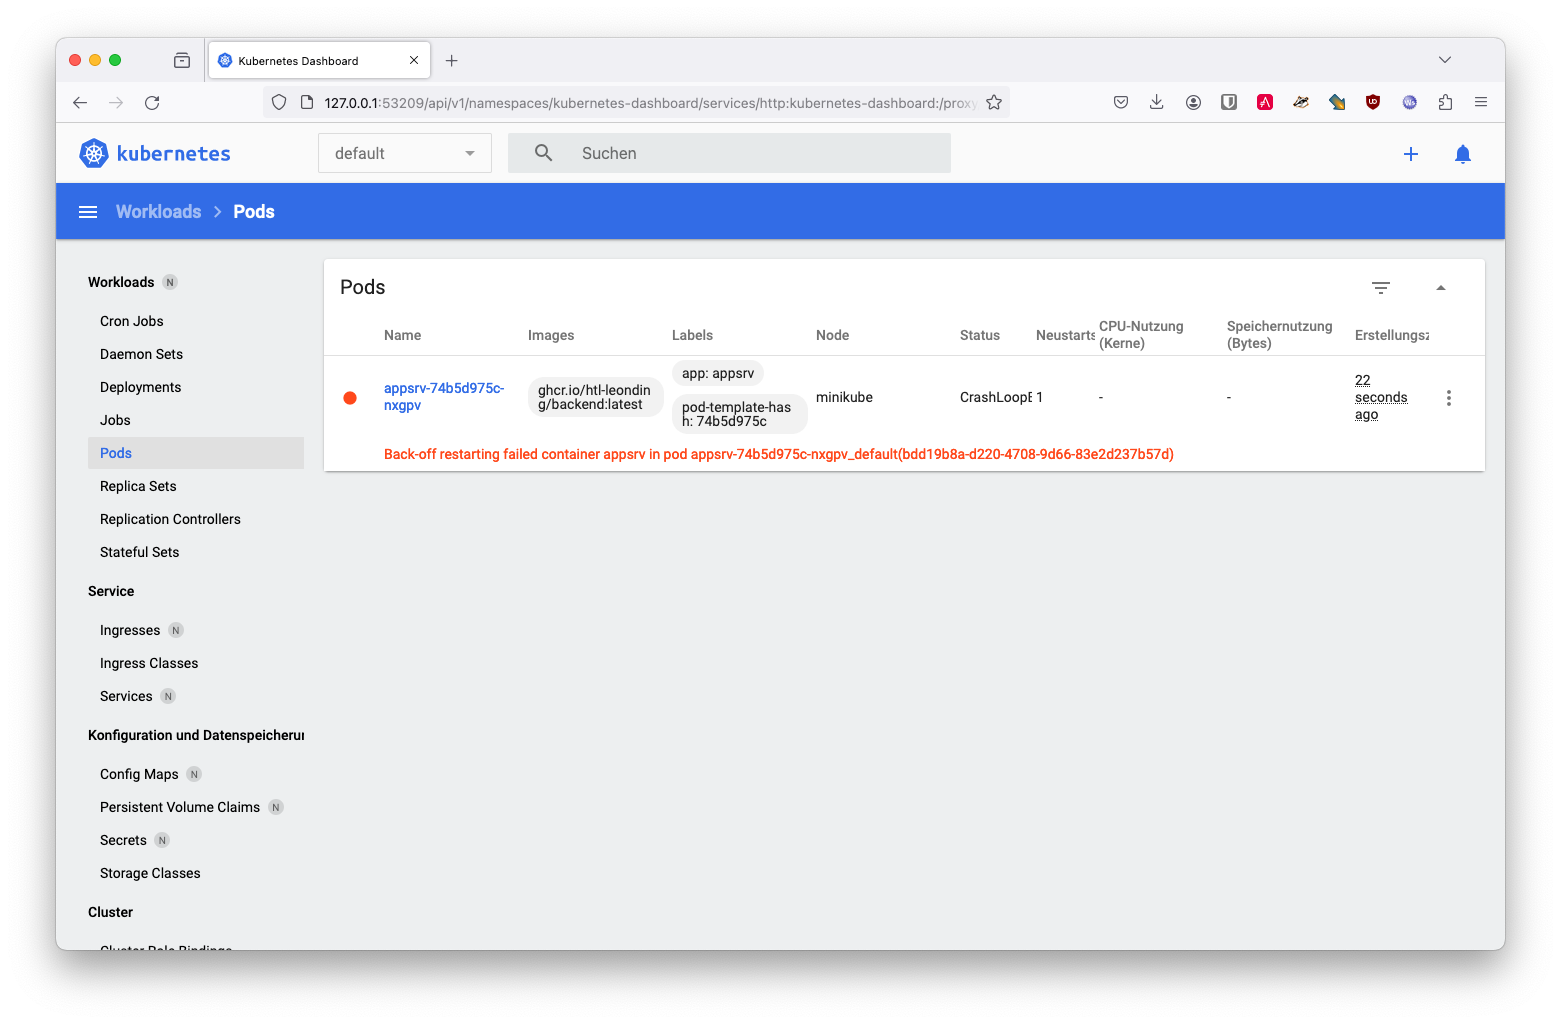
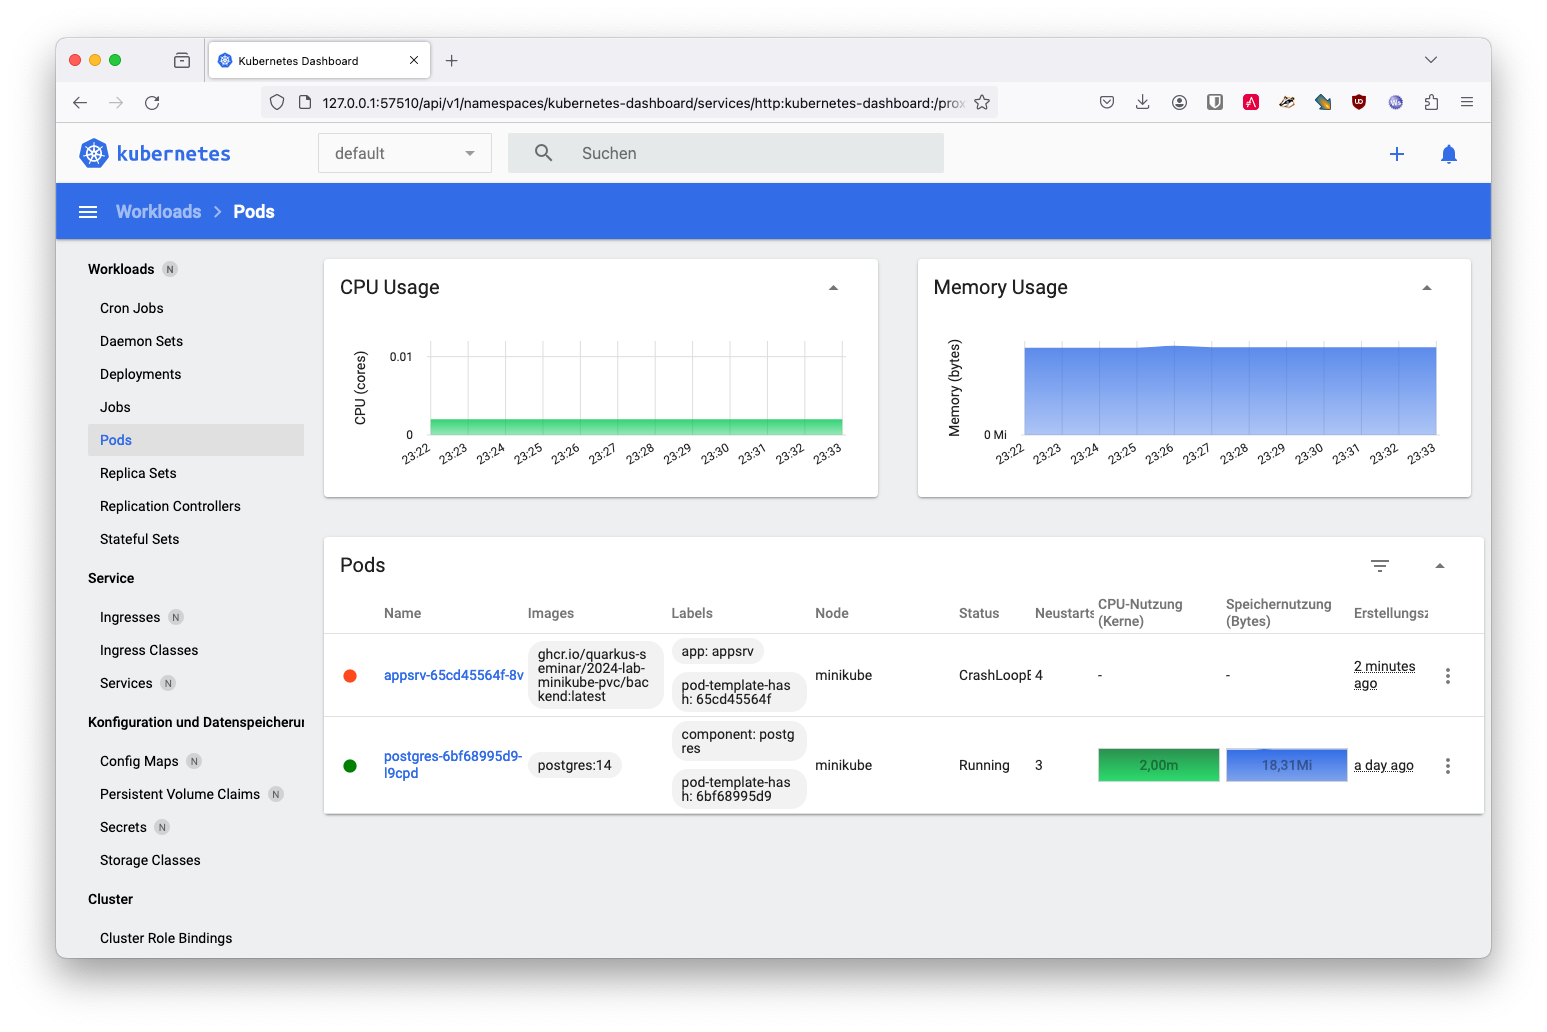
Deploying to gh-pages from @ quarkus-seminar/2024-lab-minikube-pvc@7ee6f2b4ff246fdfce09543f7fbc8039360ca9b0 🚀

diff --git a/index.html b/index.html
@@ -556,7 +556,7 @@ pre.rouge .gs {
 <div class="details">
 <span id="author" class="author">Thomas W. Stütz</span><br>
 <span id="revnumber">version 1.0.0,</span>
-<span id="revdate">2024-03-13</span>
+<span id="revdate">2024-03-15</span>
 <br><span id="revremark">build a simple rest endpoint and deploy app to minikube/cloud</span>
 </div>
 <div id="toc" class="toc2">
@@ -589,10 +589,9 @@ pre.rouge .gs {
 <li><a href="#_fix_problems">16.2. Fix problems</a></li>
 </ul>
 </li>
-<li><a href="#_re_deploy_to_minikube">17. Re-Deploy to minikube</a></li>
-<li><a href="#_port_forward_from_minikube">18. Port Forward from minikube</a></li>
-<li><a href="#_access_the_app">19. Access the App</a></li>
-<li><a href="#_troubleshooting">20. Troubleshooting</a></li>
+<li><a href="#_port_forward_from_minikube">17. Port Forward from minikube</a></li>
+<li><a href="#_access_the_app">18. Access the App</a></li>
+<li><a href="#_troubleshooting">19. Troubleshooting</a></li>
 </ul>
 </div>
 </div>
@@ -602,6 +601,9 @@ pre.rouge .gs {
 <h2 id="_voraussetzungen" class="discrete">Voraussetzungen</h2>
 <div class="paragraph">
 <p><a href="https://htl-leonding-college.github.io/quarkus-lecture-notes/how-to-install-required-software.html" target="_blank" rel="noopener">Which software is required and how to install?</a></p>
+</div>
+<div class="paragraph">
+<p>link::k8s.zip[k8s.zip]</p>
 </div>
 </div>
 </div>
@@ -1300,7 +1302,14 @@ docker push ghcr.io/<span class="nv">$GITHUB_REPOSITORY</span>/backend:latest</c
 <div class="sect1">
 <h2 id="_config_gh_actions_pipeline"><a class="anchor" href="#_config_gh_actions_pipeline"></a>13. Config gh-actions - Pipeline</h2>
 <div class="sectionbody">
+<div class="imageblock">
+<div class="content">
+<img src="images/build-yaml.png" alt="build yaml">
+</div>
+<div class="title">Figure 1. : .github/workflows/build.yaml</div>
+</div>
 <div class="listingblock">
+<div class="title">build.yaml</div>
 <div class="content">
 <pre class="rouge highlight"><code data-lang="yaml"><span class="na">name</span><span class="pi">:</span> <span class="s">Build and Deploy Dockerfiles</span>
 <span class="na">run-name</span><span class="pi">:</span> <span class="s">${{ github.actor }} is building Docker images 🚀</span>
@@ -1336,6 +1345,18 @@ docker push ghcr.io/<span class="nv">$GITHUB_REPOSITORY</span>/backend:latest</c
 
       <span class="pi">-</span> <span class="na">name</span><span class="pi">:</span> <span class="s">Build with Maven</span>
         <span class="na">run</span><span class="pi">:</span> <span class="s">./build.sh</span></code></pre>
+</div>
+</div>
+<div class="ulist">
+<ul>
+<li>
+<p>Make a commit and push it to the repository</p>
+</li>
+</ul>
+</div>
+<div class="imageblock">
+<div class="content">
+<img src="images/gh-action-build.png" alt="gh action build">
 </div>
 </div>
 </div>
@@ -1374,13 +1395,6 @@ docker push ghcr.io/<span class="nv">$GITHUB_REPOSITORY</span>/backend:latest</c
 <h2 id="_configure_kubernetes_deployment"><a class="anchor" href="#_configure_kubernetes_deployment"></a>15. Configure kubernetes Deployment</h2>
 <div class="sectionbody">
 <div class="listingblock">
-<div class="title">check, if you are still in project root, then:</div>
-<div class="content">
-<pre>mkdir k8s
-touch k8s/appsrv.yaml</pre>
-</div>
-</div>
-<div class="listingblock">
 <div class="title">k8s/appsrv.yaml</div>
 <div class="content">
 <pre class="rouge highlight"><code data-lang="yaml"><span class="c1"># Quarkus Application Server</span>
@@ -1401,7 +1415,7 @@ touch k8s/appsrv.yaml</pre>
     <span class="na">spec</span><span class="pi">:</span>
       <span class="na">containers</span><span class="pi">:</span>
         <span class="pi">-</span> <span class="na">name</span><span class="pi">:</span> <span class="s">appsrv</span>
-          <span class="na">image</span><span class="pi">:</span> <span class="s">ghcr.io/htl-leonding/backend:latest</span> <i class="conum" data-value="1"></i><b>(1)</b>
+          <span class="na">image</span><span class="pi">:</span> <span class="s">ghcr.io/quarkus-seminar/2024-lab-minikube-pvc/backend:latest</span> <i class="conum" data-value="1"></i><b>(1)</b>
           <span class="c1"># remove this when stable. Currently we do not take care of version numbers</span>
           <span class="na">imagePullPolicy</span><span class="pi">:</span> <span class="s">Always</span>
           <span class="na">ports</span><span class="pi">:</span>
@@ -1565,92 +1579,29 @@ service/appsrv created</pre>
 </div>
 <div class="imageblock">
 <div class="content">
+<img src="images/k8s-exec-format-error.png" alt="k8s exec format error">
+</div>
+</div>
+<div class="ulist">
+<ul>
+<li>
+<p>This error occurs when running minikube on a arm-processor and the image is build for x86-processor (amd).</p>
+</li>
+<li>
+<p>We will fix this later on</p>
+</li>
+</ul>
+</div>
+<div class="imageblock">
+<div class="content">
 <img src="images/dashboard-04.png" alt="dashboard 04">
 </div>
 </div>
-<div class="ulist">
-<ul>
-<li>
-<p>We have problems with the jdk-version, because &#8230;&#8203;</p>
-<div class="ulist">
-<ul>
-<li>
-<p>The pom uses jdk-21</p>
-<div class="imageblock">
-<div class="content">
-<img src="images/pom-jdk21.png" alt="pom jdk21">
-</div>
-</div>
-</li>
-<li>
-<p>The Docker image uses jdk-17</p>
-<div class="imageblock">
-<div class="content">
-<img src="images/dockerfile.png" alt="dockerfile">
-</div>
-</div>
-</li>
-</ul>
-</div>
-</li>
-<li>
-<p>We decide to use jdk-17 and fix the <code>pom.xml</code>.</p>
-</li>
-</ul>
-</div>
 </div>
 </div>
 </div>
 <div class="sect1">
-<h2 id="_re_deploy_to_minikube"><a class="anchor" href="#_re_deploy_to_minikube"></a>17. Re-Deploy to minikube</h2>
-<div class="sectionbody">
-<details>
-<summary class="title">build and push the image</summary>
-<div class="content">
-<div class="listingblock">
-<div class="content">
-<pre>./mvnw clean package
-cp src/main/docker/Dockerfile target
-docker build --tag ghcr.io/htl-leonding/backend:latest ./target
-docker push ghcr.io/htl-leonding/backend:latest</pre>
-</div>
-</div>
-</div>
-</details>
-<div class="listingblock">
-<div class="title">Redeploy the app</div>
-<div class="content">
-<pre>kubectl rollout restart deployment appsrv</pre>
-</div>
-</div>
-<div class="ulist">
-<ul>
-<li>
-<p>Now you see the new pod is already running and the old (broken) pod is still alive.</p>
-</li>
-</ul>
-</div>
-<div class="imageblock">
-<div class="content">
-<img src="images/dashboard-05.png" alt="dashboard 05">
-</div>
-</div>
-<div class="ulist">
-<ul>
-<li>
-<p>The broken pods are now history</p>
-</li>
-</ul>
-</div>
-<div class="imageblock">
-<div class="content">
-<img src="images/dashboard-06.png" alt="dashboard 06">
-</div>
-</div>
-</div>
-</div>
-<div class="sect1">
-<h2 id="_port_forward_from_minikube"><a class="anchor" href="#_port_forward_from_minikube"></a>18. Port Forward from minikube</h2>
+<h2 id="_port_forward_from_minikube"><a class="anchor" href="#_port_forward_from_minikube"></a>17. Port Forward from minikube</h2>
 <div class="sectionbody">
 <div class="listingblock">
 <div class="title">Port forwarding</div>
@@ -1675,7 +1626,7 @@ Use kubectl-autocomplete for the appsrv
 <div class="content">
 <div class="listingblock">
 <div class="content">
-<pre>❯ kubectl port-forward appsrv-7964857d64-2bhcp 8080:8080
+<pre>❯ kubectl port-forward appsrv-65cd45564f-8vlrm 8080:8080
 Forwarding from 127.0.0.1:8080 -&gt; 8080
 Forwarding from [::1]:8080 -&gt; 8080</pre>
 </div>
@@ -1685,27 +1636,49 @@ Forwarding from [::1]:8080 -&gt; 8080</pre>
 </div>
 </div>
 <div class="sect1">
-<h2 id="_access_the_app"><a class="anchor" href="#_access_the_app"></a>19. Access the App</h2>
+<h2 id="_access_the_app"><a class="anchor" href="#_access_the_app"></a>18. Access the App</h2>
 <div class="sectionbody">
 <div class="listingblock">
 <div class="content">
-<pre>curl -i http://localhost:8080/hello</pre>
+<pre>curl -i http://localhost:8080/api/vehicle</pre>
 </div>
 </div>
 <div class="listingblock">
 <div class="title">result</div>
 <div class="content">
-<pre>HTTP/1.1 200 OK
-content-length: 28
-Content-Type: text/plain;charset=UTF-8
+<pre>GET http://localhost:8080/api/vehicle
 
-Hello from RESTEasy Reactive%</pre>
+HTTP/1.1 200 OK
+Content-Type: application/json;charset=UTF-8
+content-length: 126
+
+[
+  {
+    "id": 1,
+    "brand": "Opel",
+    "model": "Kadett"
+  },
+  {
+    "id": 2,
+    "brand": "VW",
+    "model": "Käfer 1400"
+  },
+  {
+    "id": 3,
+    "brand": "Opel",
+    "model": "Blitz"
+  }
+]
+Response file saved.
+&gt; 2024-03-13T062310.200.json
+
+Response code: 200 (OK); Time: 872ms (872 ms); Content length: 125 bytes (125 B)</pre>
 </div>
 </div>
 </div>
 </div>
 <div class="sect1">
-<h2 id="_troubleshooting"><a class="anchor" href="#_troubleshooting"></a>20. Troubleshooting</h2>
+<h2 id="_troubleshooting"><a class="anchor" href="#_troubleshooting"></a>19. Troubleshooting</h2>
 <div class="sectionbody">
 <div class="listingblock">
 <div class="title">open an ssh-shell in minikube</div>
@@ -1728,7 +1701,7 @@ Hello from RESTEasy Reactive%</pre>
 <div id="footer">
 <div id="footer-text">
 Version 1.0.0<br>
-Last updated 2024-03-13 01:47:33 UTC
+Last updated 2024-03-15 08:33:01 UTC
 </div>
 </div>
 </body>
